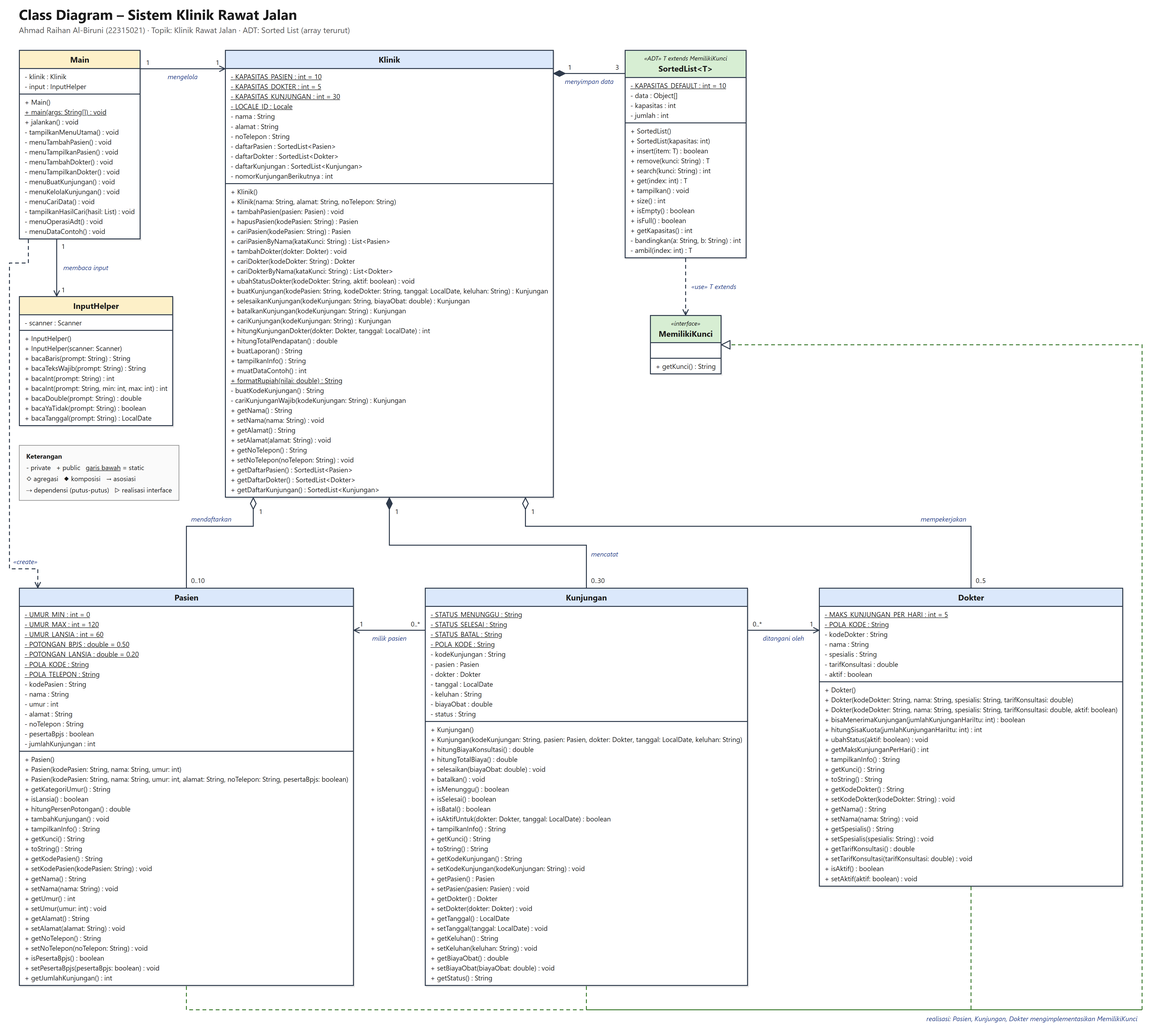
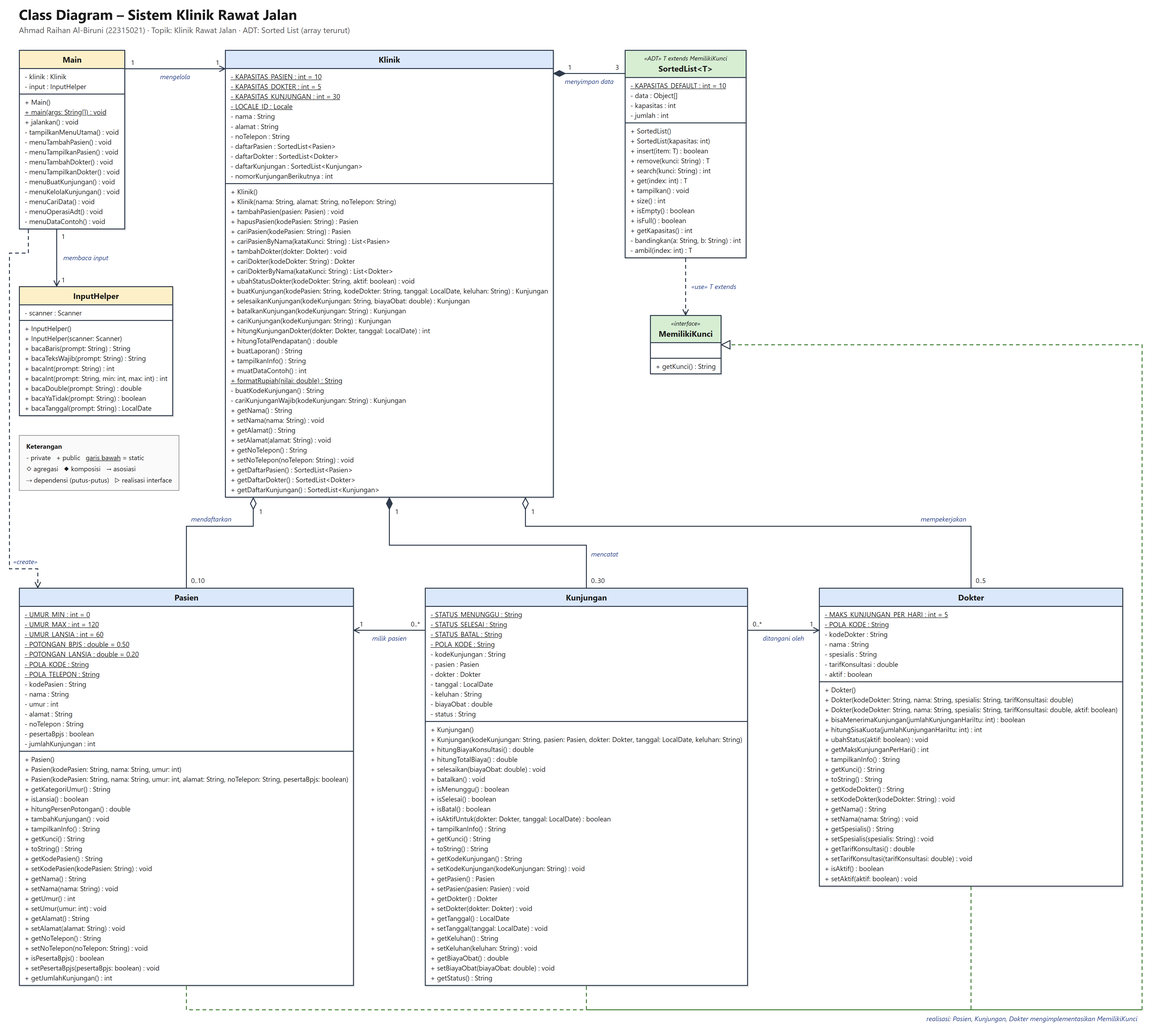
Sederhanakan kode: ganti operator ternary dan String.format dengan if-else dan penggabungan string

Changed region(s): [[0.0, 0.1869, 0.1559, 0.4983], [0.0935, 0.0311, 0.1247, 0.0934]]

diff --git a/docs/class-diagram.html b/docs/class-diagram.html
@@ -24,7 +24,7 @@ svg{position:absolute;left:0;top:0;overflow:visible;z-index:2;pointer-events:non
 <marker id="dia1" viewBox="0 0 26 14" refX="1" refY="7" markerWidth="26" markerHeight="14" orient="auto" markerUnits="userSpaceOnUse"><path d="M1,7 L13,1 L25,7 L13,13 Z" fill="#2f3b4c" stroke="#2f3b4c" stroke-width="2"/></marker>
 </defs></svg></div>
 <script>
-const SRC = "classDiagram\n    direction TB\n\n    class MemilikiKunci {\n        <<interface>>\n        +getKunci() String\n    }\n\n    class SortedList~T~ {\n        <<ADT, T extends MemilikiKunci>>\n        -KAPASITAS_DEFAULT: int = 10$\n        -data: Object[]\n        -kapasitas: int\n        -jumlah: int\n        +SortedList()\n        +SortedList(kapasitas: int)\n        +insert(item: T) boolean\n        +remove(kunci: String) T\n        +search(kunci: String) int\n        +get(index: int) T\n        +tampilkan() void\n        +size() int\n        +isEmpty() boolean\n        +isFull() boolean\n        +getKapasitas() int\n        -bandingkan(a: String, b: String) int\n        -ambil(index: int) T\n    }\n\n    class Klinik {\n        -KAPASITAS_PASIEN: int = 10$\n        -KAPASITAS_DOKTER: int = 5$\n        -KAPASITAS_KUNJUNGAN: int = 30$\n        -LOCALE_ID: Locale$\n        -nama: String\n        -alamat: String\n        -noTelepon: String\n        -daftarPasien: SortedList~Pasien~\n        -daftarDokter: SortedList~Dokter~\n        -daftarKunjungan: SortedList~Kunjungan~\n        -nomorKunjunganBerikutnya: int\n        +Klinik()\n        +Klinik(nama: String, alamat: String, noTelepon: String)\n        +tambahPasien(pasien: Pasien) void\n        +hapusPasien(kodePasien: String) Pasien\n        +cariPasien(kodePasien: String) Pasien\n        +cariPasienByNama(kataKunci: String) List~Pasien~\n        +tambahDokter(dokter: Dokter) void\n        +cariDokter(kodeDokter: String) Dokter\n        +cariDokterByNama(kataKunci: String) List~Dokter~\n        +ubahStatusDokter(kodeDokter: String, aktif: boolean) void\n        +buatKunjungan(kodePasien: String, kodeDokter: String, tanggal: LocalDate, keluhan: String) Kunjungan\n        +selesaikanKunjungan(kodeKunjungan: String, biayaObat: double) Kunjungan\n        +batalkanKunjungan(kodeKunjungan: String) Kunjungan\n        +cariKunjungan(kodeKunjungan: String) Kunjungan\n        +hitungKunjunganDokter(dokter: Dokter, tanggal: LocalDate) int\n        +hitungTotalPendapatan() double\n        +buatLaporan() String\n        +tampilkanInfo() String\n        +muatDataContoh() int\n        +formatRupiah(nilai: double)$ String\n        -buatKodeKunjungan() String\n        -cariKunjunganWajib(kodeKunjungan: String) Kunjungan\n        +getNama() String\n        +setNama(nama: String) void\n        +getAlamat() String\n        +setAlamat(alamat: String) void\n        +getNoTelepon() String\n        +setNoTelepon(noTelepon: String) void\n        +getDaftarPasien() SortedList~Pasien~\n        +getDaftarDokter() SortedList~Dokter~\n        +getDaftarKunjungan() SortedList~Kunjungan~\n    }\n\n    class Pasien {\n        -UMUR_MIN: int = 0$\n        -UMUR_MAX: int = 120$\n        -UMUR_LANSIA: int = 60$\n        -POTONGAN_BPJS: double = 0.50$\n        -POTONGAN_LANSIA: double = 0.20$\n        -POLA_KODE: String$\n        -POLA_TELEPON: String$\n        -kodePasien: String\n        -nama: String\n        -umur: int\n        -alamat: String\n        -noTelepon: String\n        -pesertaBpjs: boolean\n        -jumlahKunjungan: int\n        +Pasien()\n        +Pasien(kodePasien: String, nama: String, umur: int)\n        +Pasien(kodePasien: String, nama: String, umur: int, alamat: String, noTelepon: String, pesertaBpjs: boolean)\n        +getKategoriUmur() String\n        +isLansia() boolean\n        +hitungPersenPotongan() double\n        +tambahKunjungan() void\n        +tampilkanInfo() String\n        +getKunci() String\n        +toString() String\n        +getKodePasien() String\n        +setKodePasien(kodePasien: String) void\n        +getNama() String\n        +setNama(nama: String) void\n        +getUmur() int\n        +setUmur(umur: int) void\n        +getAlamat() String\n        +setAlamat(alamat: String) void\n        +getNoTelepon() String\n        +setNoTelepon(noTelepon: String) void\n        +isPesertaBpjs() boolean\n        +setPesertaBpjs(pesertaBpjs: boolean) void\n        +getJumlahKunjungan() int\n    }\n\n    class Dokter {\n        -MAKS_KUNJUNGAN_PER_HARI: int = 5$\n        -POLA_KODE: String$\n        -kodeDokter: String\n        -nama: String\n        -spesialis: String\n        -tarifKonsultasi: double\n        -aktif: boolean\n        +Dokter()\n        +Dokter(kodeDokter: String, nama: String, spesialis: String, tarifKonsultasi: double)\n        +Dokter(kodeDokter: String, nama: String, spesialis: String, tarifKonsultasi: double, aktif: boolean)\n        +bisaMenerimaKunjungan(jumlahKunjunganHariItu: int) boolean\n        +hitungSisaKuota(jumlahKunjunganHariItu: int) int\n        +ubahStatus(aktif: boolean) void\n        +getMaksKunjunganPerHari() int\n        +tampilkanInfo() String\n        +getKunci() String\n        +toString() String\n        +getKodeDokter() String\n        +setKodeDokter(kodeDokter: String) void\n        +getNama() String\n        +setNama(nama: String) void\n        +getSpesialis() String\n        +setSpesialis(spesialis: String) void\n        +getTarifKonsultasi() double\n        +setTarifKonsultasi(tarifKonsultasi: double) void\n        +isAktif() boolean\n        +setAktif(aktif: boolean) void\n    }\n\n    class Kunjungan {\n        -STATUS_MENUNGGU: String$\n        -STATUS_SELESAI: String$\n        -STATUS_BATAL: String$\n        -POLA_KODE: String$\n        -kodeKunjungan: String\n        -pasien: Pasien\n        -dokter: Dokter\n        -tanggal: LocalDate\n        -keluhan: String\n        -biayaObat: double\n        -status: String\n        +Kunjungan()\n        +Kunjungan(kodeKunjungan: String, pasien: Pasien, dokter: Dokter, tanggal: LocalDate, keluhan: String)\n        +hitungBiayaKonsultasi() double\n        +hitungTotalBiaya() double\n        +selesaikan(biayaObat: double) void\n        +batalkan() void\n        +isMenunggu() boolean\n        +isSelesai() boolean\n        +isBatal() boolean\n        +isAktifUntuk(dokter: Dokter, tanggal: LocalDate) boolean\n        +tampilkanInfo() String\n        +getKunci() String\n        +toString() String\n        +getKodeKunjungan() String\n        +setKodeKunjungan(kodeKunjungan: String) void\n        +getPasien() Pasien\n        +setPasien(pasien: Pasien) void\n        +getDokter() Dokter\n        +setDokter(dokter: Dokter) void\n        +getTanggal() LocalDate\n        +setTanggal(tanggal: LocalDate) void\n        +getKeluhan() String\n        +setKeluhan(keluhan: String) void\n        +getBiayaObat() double\n        +setBiayaObat(biayaObat: double) void\n        +getStatus() String\n    }\n\n    class Main {\n        -klinik: Klinik\n        -input: InputHelper\n        +Main()\n        +main(args: String[])$ void\n        +jalankan() void\n        -tampilkanMenuUtama() void\n        -menuTambahPasien() void\n        -menuTampilkanPasien() void\n        -menuTambahDokter() void\n        -menuTampilkanDokter() void\n        -menuBuatKunjungan() void\n        -menuKelolaKunjungan() void\n        -menuCariData() void\n        -tampilkanHasilCari(hasil: List) void\n        -menuOperasiAdt() void\n        -menuDataContoh() void\n    }\n\n    class InputHelper {\n        -scanner: Scanner\n        +InputHelper()\n        +InputHelper(scanner: Scanner)\n        +bacaBaris(prompt: String) String\n        +bacaTeksWajib(prompt: String) String\n        +bacaInt(prompt: String) int\n        +bacaInt(prompt: String, min: int, max: int) int\n        +bacaDouble(prompt: String) double\n        +bacaYaTidak(prompt: String) boolean\n        +bacaTanggal(prompt: String) LocalDate\n    }\n\n    Main \"1\" --> \"1\" Klinik : mengelola\n    Main \"1\" --> \"1\" InputHelper : membaca input\n    Main ..> Pasien : create\n    Main ..> Dokter : create\n    Klinik \"1\" o-- \"0..10\" Pasien : mendaftarkan\n    Klinik \"1\" o-- \"0..5\" Dokter : mempekerjakan\n    Klinik \"1\" *-- \"0..30\" Kunjungan : mencatat\n    Klinik \"1\" *-- \"3\" SortedList : menyimpan data\n    Kunjungan \"0..*\" --> \"1\" Pasien : milik pasien\n    Kunjungan \"0..*\" --> \"1\" Dokter : ditangani oleh\n    MemilikiKunci <|.. Pasien : realisasi\n    MemilikiKunci <|.. Dokter : realisasi\n    MemilikiKunci <|.. Kunjungan : realisasi\n    SortedList ..> MemilikiKunci : T extends\n";
+const SRC = "classDiagram\n    direction TB\n\n    class MemilikiKunci {\n        <<interface>>\n        +getKunci() String\n    }\n\n    class SortedList~T~ {\n        <<ADT, T extends MemilikiKunci>>\n        -KAPASITAS_DEFAULT: int = 10$\n        -data: Object[]\n        -kapasitas: int\n        -jumlah: int\n        +SortedList()\n        +SortedList(kapasitas: int)\n        +insert(item: T) boolean\n        +remove(kunci: String) T\n        +search(kunci: String) int\n        +get(index: int) T\n        +tampilkan() void\n        +size() int\n        +isEmpty() boolean\n        +isFull() boolean\n        +getKapasitas() int\n        -bandingkan(a: String, b: String) int\n        -ambil(index: int) T\n    }\n\n    class Klinik {\n        -KAPASITAS_PASIEN: int = 10$\n        -KAPASITAS_DOKTER: int = 5$\n        -KAPASITAS_KUNJUNGAN: int = 30$\n        -LOCALE_ID: Locale$\n        -nama: String\n        -alamat: String\n        -noTelepon: String\n        -daftarPasien: SortedList~Pasien~\n        -daftarDokter: SortedList~Dokter~\n        -daftarKunjungan: SortedList~Kunjungan~\n        -nomorKunjunganBerikutnya: int\n        +Klinik()\n        +Klinik(nama: String, alamat: String, noTelepon: String)\n        +tambahPasien(pasien: Pasien) void\n        +hapusPasien(kodePasien: String) Pasien\n        +cariPasien(kodePasien: String) Pasien\n        +cariPasienByNama(kataKunci: String) List~Pasien~\n        +tambahDokter(dokter: Dokter) void\n        +cariDokter(kodeDokter: String) Dokter\n        +cariDokterByNama(kataKunci: String) List~Dokter~\n        +ubahStatusDokter(kodeDokter: String, aktif: boolean) void\n        +buatKunjungan(kodePasien: String, kodeDokter: String, tanggal: LocalDate, keluhan: String) Kunjungan\n        +selesaikanKunjungan(kodeKunjungan: String, biayaObat: double) Kunjungan\n        +batalkanKunjungan(kodeKunjungan: String) Kunjungan\n        +cariKunjungan(kodeKunjungan: String) Kunjungan\n        +hitungKunjunganDokter(dokter: Dokter, tanggal: LocalDate) int\n        +hitungTotalPendapatan() double\n        +buatLaporan() String\n        +tampilkanInfo() String\n        +muatDataContoh() int\n        +formatRupiah(nilai: double)$ String\n        -buatKodeKunjungan() String\n        -cariKunjunganWajib(kodeKunjungan: String) Kunjungan\n        +getNama() String\n        +setNama(nama: String) void\n        +getAlamat() String\n        +setAlamat(alamat: String) void\n        +getNoTelepon() String\n        +setNoTelepon(noTelepon: String) void\n        +getDaftarPasien() SortedList~Pasien~\n        +getDaftarDokter() SortedList~Dokter~\n        +getDaftarKunjungan() SortedList~Kunjungan~\n    }\n\n    class Pasien {\n        -UMUR_MIN: int = 0$\n        -UMUR_MAX: int = 120$\n        -UMUR_LANSIA: int = 60$\n        -POTONGAN_BPJS: double = 0.50$\n        -POTONGAN_LANSIA: double = 0.20$\n        -POLA_KODE: String$\n        -POLA_TELEPON: String$\n        -kodePasien: String\n        -nama: String\n        -umur: int\n        -alamat: String\n        -noTelepon: String\n        -pesertaBpjs: boolean\n        -jumlahKunjungan: int\n        +Pasien()\n        +Pasien(kodePasien: String, nama: String, umur: int)\n        +Pasien(kodePasien: String, nama: String, umur: int, alamat: String, noTelepon: String, pesertaBpjs: boolean)\n        +getKategoriUmur() String\n        +isLansia() boolean\n        +hitungPersenPotongan() double\n        +tambahKunjungan() void\n        +tampilkanInfo() String\n        +getKunci() String\n        +toString() String\n        +getKodePasien() String\n        +setKodePasien(kodePasien: String) void\n        +getNama() String\n        +setNama(nama: String) void\n        +getUmur() int\n        +setUmur(umur: int) void\n        +getAlamat() String\n        +setAlamat(alamat: String) void\n        +getNoTelepon() String\n        +setNoTelepon(noTelepon: String) void\n        +isPesertaBpjs() boolean\n        +setPesertaBpjs(pesertaBpjs: boolean) void\n        +getJumlahKunjungan() int\n    }\n\n    class Dokter {\n        -MAKS_KUNJUNGAN_PER_HARI: int = 5$\n        -POLA_KODE: String$\n        -kodeDokter: String\n        -nama: String\n        -spesialis: String\n        -tarifKonsultasi: double\n        -aktif: boolean\n        +Dokter()\n        +Dokter(kodeDokter: String, nama: String, spesialis: String, tarifKonsultasi: double)\n        +Dokter(kodeDokter: String, nama: String, spesialis: String, tarifKonsultasi: double, aktif: boolean)\n        +bisaMenerimaKunjungan(jumlahKunjunganHariItu: int) boolean\n        +hitungSisaKuota(jumlahKunjunganHariItu: int) int\n        +ubahStatus(aktif: boolean) void\n        +getMaksKunjunganPerHari() int\n        +tampilkanInfo() String\n        +getKunci() String\n        +toString() String\n        +getKodeDokter() String\n        +setKodeDokter(kodeDokter: String) void\n        +getNama() String\n        +setNama(nama: String) void\n        +getSpesialis() String\n        +setSpesialis(spesialis: String) void\n        +getTarifKonsultasi() double\n        +setTarifKonsultasi(tarifKonsultasi: double) void\n        +isAktif() boolean\n        +setAktif(aktif: boolean) void\n    }\n\n    class Kunjungan {\n        -STATUS_MENUNGGU: String$\n        -STATUS_SELESAI: String$\n        -STATUS_BATAL: String$\n        -POLA_KODE: String$\n        -kodeKunjungan: String\n        -pasien: Pasien\n        -dokter: Dokter\n        -tanggal: LocalDate\n        -keluhan: String\n        -biayaObat: double\n        -status: String\n        +Kunjungan()\n        +Kunjungan(kodeKunjungan: String, pasien: Pasien, dokter: Dokter, tanggal: LocalDate, keluhan: String)\n        +hitungBiayaKonsultasi() double\n        +hitungTotalBiaya() double\n        +selesaikan(biayaObat: double) void\n        +batalkan() void\n        +isMenunggu() boolean\n        +isSelesai() boolean\n        +isBatal() boolean\n        +isAktifUntuk(dokter: Dokter, tanggal: LocalDate) boolean\n        +tampilkanInfo() String\n        +getKunci() String\n        +toString() String\n        +getKodeKunjungan() String\n        +setKodeKunjungan(kodeKunjungan: String) void\n        +getPasien() Pasien\n        +setPasien(pasien: Pasien) void\n        +getDokter() Dokter\n        +setDokter(dokter: Dokter) void\n        +getTanggal() LocalDate\n        +setTanggal(tanggal: LocalDate) void\n        +getKeluhan() String\n        +setKeluhan(keluhan: String) void\n        +getBiayaObat() double\n        +setBiayaObat(biayaObat: double) void\n        +getStatus() String\n    }\n\n    class Main {\n        -klinik: Klinik\n        -input: InputHelper\n        +Main()\n        +main(args: String[])$ void\n        +jalankan() void\n        -tampilkanMenuUtama() void\n        -menuTambahPasien() void\n        -menuTampilkanPasien() void\n        -menuTambahDokter() void\n        -menuTampilkanDokter() void\n        -menuBuatKunjungan() void\n        -menuKelolaKunjungan() void\n        -menuCariData() void\n        -menuOperasiAdt() void\n        -menuDataContoh() void\n    }\n\n    class InputHelper {\n        -scanner: Scanner\n        +InputHelper()\n        +InputHelper(scanner: Scanner)\n        +bacaBaris(prompt: String) String\n        +bacaTeksWajib(prompt: String) String\n        +bacaInt(prompt: String) int\n        +bacaInt(prompt: String, min: int, max: int) int\n        +bacaDouble(prompt: String) double\n        +bacaYaTidak(prompt: String) boolean\n        +bacaTanggal(prompt: String) LocalDate\n    }\n\n    Main \"1\" --> \"1\" Klinik : mengelola\n    Main \"1\" --> \"1\" InputHelper : membaca input\n    Main ..> Pasien : create\n    Main ..> Dokter : create\n    Klinik \"1\" o-- \"0..10\" Pasien : mendaftarkan\n    Klinik \"1\" o-- \"0..5\" Dokter : mempekerjakan\n    Klinik \"1\" *-- \"0..30\" Kunjungan : mencatat\n    Klinik \"1\" *-- \"3\" SortedList : menyimpan data\n    Kunjungan \"0..*\" --> \"1\" Pasien : milik pasien\n    Kunjungan \"0..*\" --> \"1\" Dokter : ditangani oleh\n    MemilikiKunci <|.. Pasien : realisasi\n    MemilikiKunci <|.. Dokter : realisasi\n    MemilikiKunci <|.. Kunjungan : realisasi\n    SortedList ..> MemilikiKunci : T extends\n";
 const esc = s => s.replace(/&/g,'&amp;').replace(/</g,'&lt;').replace(/>/g,'&gt;');
 const gen = s => s.replace(/~([^~]*)~/g,'<$1>');
 // ---- parse mermaid class blocks ----

diff --git a/src/klinik/app/Main.java b/src/klinik/app/Main.java
@@ -118,8 +118,11 @@ public class Main {
             String kode = input.bacaTeksWajib("Kode dokter: ");
             boolean aktif = input.bacaYaTidak("Jadikan AKTIF? (t = nonaktif)");
             klinik.ubahStatusDokter(kode, aktif);
-            System.out.println("[OK] Status dokter " + kode.toUpperCase() + " diubah menjadi "
-                    + (aktif ? "Aktif" : "Nonaktif"));
+            if (aktif) {
+                System.out.println("[OK] Status dokter " + kode.toUpperCase() + " diubah menjadi Aktif");
+            } else {
+                System.out.println("[OK] Status dokter " + kode.toUpperCase() + " diubah menjadi Nonaktif");
+            }
         }
     }
 
@@ -189,42 +192,53 @@ public class Main {
         switch (pilihan) {
             case 1: {
                 Pasien p = klinik.cariPasien(input.bacaTeksWajib("Kode pasien: "));
-                System.out.println(p == null ? "[INFO] Pasien tidak ditemukan." : "Ditemukan: " + p);
+                if (p == null) {
+                    System.out.println("[INFO] Pasien tidak ditemukan.");
+                } else {
+                    System.out.println("Ditemukan: " + p);
+                }
                 break;
             }
             case 2: {
                 List<Pasien> hasil = klinik.cariPasienByNama(input.bacaTeksWajib("Nama (sebagian): "));
-                tampilkanHasilCari(hasil);
+                if (hasil.isEmpty()) {
+                    System.out.println("[INFO] Tidak ada pasien yang cocok.");
+                }
+                for (Pasien p : hasil) {
+                    System.out.println("  " + p);
+                }
                 break;
             }
             case 3: {
                 Dokter d = klinik.cariDokter(input.bacaTeksWajib("Kode dokter: "));
-                System.out.println(d == null ? "[INFO] Dokter tidak ditemukan." : "Ditemukan: " + d);
+                if (d == null) {
+                    System.out.println("[INFO] Dokter tidak ditemukan.");
+                } else {
+                    System.out.println("Ditemukan: " + d);
+                }
                 break;
             }
             case 4: {
                 List<Dokter> hasil = klinik.cariDokterByNama(input.bacaTeksWajib("Nama/spesialis (sebagian): "));
-                tampilkanHasilCari(hasil);
+                if (hasil.isEmpty()) {
+                    System.out.println("[INFO] Tidak ada dokter yang cocok.");
+                }
+                for (Dokter d : hasil) {
+                    System.out.println("  " + d);
+                }
                 break;
             }
             case 5: {
                 Kunjungan k = klinik.cariKunjungan(input.bacaTeksWajib("Kode kunjungan: "));
-                System.out.println(k == null ? "[INFO] Kunjungan tidak ditemukan." : "Ditemukan: " + k);
+                if (k == null) {
+                    System.out.println("[INFO] Kunjungan tidak ditemukan.");
+                } else {
+                    System.out.println("Ditemukan: " + k);
+                }
                 break;
             }
             default:
                 break;
-        }
-    }
-
-    private void tampilkanHasilCari(List<?> hasil) {
-        if (hasil.isEmpty()) {
-            System.out.println("[INFO] Tidak ada data yang cocok.");
-            return;
-        }
-        System.out.println("Ditemukan " + hasil.size() + " data:");
-        for (Object o : hasil) {
-            System.out.println("  " + o);
         }
     }
 
@@ -257,8 +271,11 @@ public class Main {
                 }
                 String kode = input.bacaTeksWajib("Kode pasien: ");
                 int index = list.search(kode);
-                System.out.println(index == -1 ? "[INFO] search: kode " + kode.toUpperCase() + " tidak ditemukan (-1)."
-                        : "[OK] search: ditemukan pada index " + index + " -> " + list.get(index));
+                if (index == -1) {
+                    System.out.println("[INFO] search: kode " + kode.toUpperCase() + " tidak ditemukan (-1).");
+                } else {
+                    System.out.println("[OK] search: ditemukan pada index " + index + " -> " + list.get(index));
+                }
                 break;
             }
             case 4: {
@@ -268,8 +285,11 @@ public class Main {
                 }
                 int index = input.bacaInt("Index (0 - " + (list.size() - 1) + "): ");
                 Pasien p = list.get(index);
-                System.out.println(p == null ? "[INFO] get: index " + index + " di luar jangkauan."
-                        : "[OK] get(" + index + ") -> " + p);
+                if (p == null) {
+                    System.out.println("[INFO] get: index " + index + " di luar jangkauan.");
+                } else {
+                    System.out.println("[OK] get(" + index + ") -> " + p);
+                }
                 break;
             }
             case 5:

diff --git a/src/klinik/model/Klinik.java b/src/klinik/model/Klinik.java
@@ -97,7 +97,10 @@ public class Klinik {
     /** @return semua pasien yang namanya mengandung kata kunci (tidak peka huruf besar/kecil) */
     public List<Pasien> cariPasienByNama(String kataKunci) {
         List<Pasien> hasil = new ArrayList<>();
-        String kunci = kataKunci == null ? "" : kataKunci.trim().toLowerCase();
+        String kunci = "";
+        if (kataKunci != null) {
+            kunci = kataKunci.trim().toLowerCase();
+        }
         for (int i = 0; i < daftarPasien.size(); i++) {
             Pasien p = daftarPasien.get(i);
             if (p.getNama().toLowerCase().contains(kunci)) {
@@ -131,7 +134,10 @@ public class Klinik {
     /** @return semua dokter yang nama atau spesialisnya mengandung kata kunci */
     public List<Dokter> cariDokterByNama(String kataKunci) {
         List<Dokter> hasil = new ArrayList<>();
-        String kunci = kataKunci == null ? "" : kataKunci.trim().toLowerCase();
+        String kunci = "";
+        if (kataKunci != null) {
+            kunci = kataKunci.trim().toLowerCase();
+        }
         for (int i = 0; i < daftarDokter.size(); i++) {
             Dokter d = daftarDokter.get(i);
             if (d.getNama().toLowerCase().contains(kunci) || d.getSpesialis().toLowerCase().contains(kunci)) {
@@ -266,19 +272,17 @@ public class Klinik {
             }
         }
 
-        StringBuilder sb = new StringBuilder();
-        sb.append("===== LAPORAN RINGKAS ").append(nama.toUpperCase()).append(" =====\n");
-        sb.append(String.format("Jumlah pasien    : %d / %d (BPJS: %d, Lansia: %d)%n",
-                daftarPasien.size(), daftarPasien.getKapasitas(), bpjs, lansia));
-        sb.append(String.format("Jumlah dokter    : %d / %d (Aktif: %d)%n",
-                daftarDokter.size(), daftarDokter.getKapasitas(), dokterAktif));
-        sb.append(String.format("Jumlah kunjungan : %d / %d (Menunggu: %d, Selesai: %d, Batal: %d)%n",
-                daftarKunjungan.size(), daftarKunjungan.getKapasitas(), menunggu, selesai, batal));
-        sb.append("Total pendapatan : ").append(formatRupiah(hitungTotalPendapatan()))
-                .append(" (dari kunjungan SELESAI)\n");
-        sb.append("Kunjungan per dokter (tanpa yang batal):\n");
+        String laporan = "===== LAPORAN RINGKAS " + nama.toUpperCase() + " =====\n";
+        laporan += "Jumlah pasien    : " + daftarPasien.size() + " / " + daftarPasien.getKapasitas()
+                + " (BPJS: " + bpjs + ", Lansia: " + lansia + ")\n";
+        laporan += "Jumlah dokter    : " + daftarDokter.size() + " / " + daftarDokter.getKapasitas()
+                + " (Aktif: " + dokterAktif + ")\n";
+        laporan += "Jumlah kunjungan : " + daftarKunjungan.size() + " / " + daftarKunjungan.getKapasitas()
+                + " (Menunggu: " + menunggu + ", Selesai: " + selesai + ", Batal: " + batal + ")\n";
+        laporan += "Total pendapatan : " + formatRupiah(hitungTotalPendapatan()) + " (dari kunjungan SELESAI)\n";
+        laporan += "Kunjungan per dokter (tanpa yang batal):\n";
         if (daftarDokter.isEmpty()) {
-            sb.append("  (belum ada dokter)\n");
+            laporan += "  (belum ada dokter)\n";
         }
         for (int i = 0; i < daftarDokter.size(); i++) {
             Dokter d = daftarDokter.get(i);
@@ -289,9 +293,9 @@ public class Klinik {
                     jumlah++;
                 }
             }
-            sb.append(String.format("  %s %-22s : %d kunjungan%n", d.getKodeDokter(), d.getNama(), jumlah));
+            laporan += "  " + d.getKodeDokter() + " " + d.getNama() + " : " + jumlah + " kunjungan\n";
         }
-        return sb.toString();
+        return laporan;
     }
 
     /** @return identitas klinik dalam satu baris */

diff --git a/src/klinik/model/Pasien.java b/src/klinik/model/Pasien.java
@@ -101,9 +101,13 @@ public class Pasien implements MemilikiKunci {
 
     /** @return informasi pasien dalam satu baris */
     public String tampilkanInfo() {
-        return String.format("%s | %-22s | %3d th (%-6s) | BPJS: %-5s | Telp: %-13s | Alamat: %s | Kunjungan: %d",
-                kodePasien, nama, umur, getKategoriUmur(), pesertaBpjs ? "Ya" : "Tidak",
-                noTelepon, alamat, jumlahKunjungan);
+        String bpjs = "Tidak";
+        if (pesertaBpjs) {
+            bpjs = "Ya";
+        }
+        return kodePasien + " | " + nama + " | " + umur + " th (" + getKategoriUmur() + ")"
+                + " | BPJS: " + bpjs + " | Telp: " + noTelepon + " | Alamat: " + alamat
+                + " | Kunjungan: " + jumlahKunjungan;
     }
 
     @Override
@@ -160,7 +164,11 @@ public class Pasien implements MemilikiKunci {
 
     /** Alamat boleh kosong; jika kosong disimpan sebagai "-". */
     public void setAlamat(String alamat) {
-        this.alamat = (alamat == null || alamat.isBlank()) ? "-" : alamat.trim();
+        if (alamat == null || alamat.isBlank()) {
+            this.alamat = "-";
+        } else {
+            this.alamat = alamat.trim();
+        }
     }
 
     public String getNoTelepon() {

diff --git a/src/klinik/model/Dokter.java b/src/klinik/model/Dokter.java
@@ -69,9 +69,12 @@ public class Dokter implements MemilikiKunci {
 
     /** @return informasi dokter dalam satu baris */
     public String tampilkanInfo() {
-        return String.format("%s | %-22s | %-12s | Tarif: %-10s | Status: %s",
-                kodeDokter, nama, spesialis, Klinik.formatRupiah(tarifKonsultasi),
-                aktif ? "Aktif" : "Nonaktif");
+        String statusTeks = "Nonaktif";
+        if (aktif) {
+            statusTeks = "Aktif";
+        }
+        return kodeDokter + " | " + nama + " | " + spesialis
+                + " | Tarif: " + Klinik.formatRupiah(tarifKonsultasi) + " | Status: " + statusTeks;
     }
 
     @Override
@@ -115,7 +118,11 @@ public class Dokter implements MemilikiKunci {
 
     /** Spesialis boleh kosong; jika kosong dianggap dokter "Umum". */
     public void setSpesialis(String spesialis) {
-        this.spesialis = (spesialis == null || spesialis.isBlank()) ? "Umum" : spesialis.trim();
+        if (spesialis == null || spesialis.isBlank()) {
+            this.spesialis = "Umum";
+        } else {
+            this.spesialis = spesialis.trim();
+        }
     }
 
     public double getTarifKonsultasi() {

diff --git a/src/klinik/model/Kunjungan.java b/src/klinik/model/Kunjungan.java
@@ -104,10 +104,11 @@ public class Kunjungan implements MemilikiKunci {
 
     /** @return informasi kunjungan dalam satu baris */
     public String tampilkanInfo() {
-        return String.format("%s | %s | %s %-18s -> %s %-18s | Keluhan: %-15s | %-8s | Total: %s",
-                kodeKunjungan, tanggal, pasien.getKodePasien(), pasien.getNama(),
-                dokter.getKodeDokter(), dokter.getNama(), keluhan, status,
-                Klinik.formatRupiah(hitungTotalBiaya()));
+        return kodeKunjungan + " | " + tanggal
+                + " | " + pasien.getKodePasien() + " " + pasien.getNama()
+                + " -> " + dokter.getKodeDokter() + " " + dokter.getNama()
+                + " | Keluhan: " + keluhan + " | " + status
+                + " | Total: " + Klinik.formatRupiah(hitungTotalBiaya());
     }
 
     @Override
